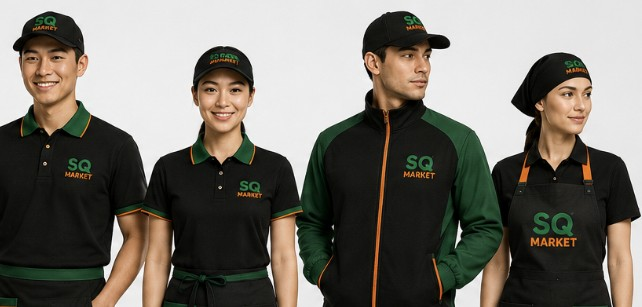
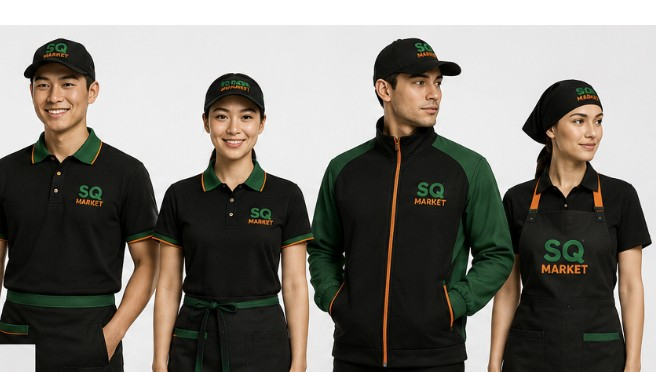
Живая карта 2ГИС и аккуратное фото команды
- карту можно двигать и приближать: проверено, что ссылка «Узнать больше»
  внутри виджета сама перекидывает на карточку в Астане, блокировать
  клики больше не нужно
- touch-action: auto для карты, чтобы жесты работали (у страницы он ограничен)
- фото формы перекадрировано из исходника: люди больше не обрезаны по пояс

diff --git a/index.html b/index.html
@@ -20,11 +20,11 @@
 <link rel="preconnect" href="https://fonts.gstatic.com" crossorigin>
 <link href="https://fonts.googleapis.com/css2?family=Manrope:wght@400;500;600;700&family=Unbounded:wght@600;700;800&display=swap" rel="stylesheet">
 
-<link rel="stylesheet" href="assets/css/tokens.css?v=15">
-<link rel="stylesheet" href="assets/css/base.css?v=15">
-<link rel="stylesheet" href="assets/css/components.css?v=15">
-<link rel="stylesheet" href="assets/css/sections.css?v=15">
-<link rel="stylesheet" href="assets/css/mobile.css?v=15">
+<link rel="stylesheet" href="assets/css/tokens.css?v=17">
+<link rel="stylesheet" href="assets/css/base.css?v=17">
+<link rel="stylesheet" href="assets/css/components.css?v=17">
+<link rel="stylesheet" href="assets/css/sections.css?v=17">
+<link rel="stylesheet" href="assets/css/mobile.css?v=17">
 </head>
 
 <body>
@@ -309,7 +309,7 @@
   <section class="section section--tight">
     <div class="wrap team__grid">
       <div class="team__photo" data-reveal="left">
-        <img src="assets/img/uniform.jpg" alt="Форма сотрудников SQ Market" loading="lazy" width="642" height="307">
+        <img src="assets/img/uniform.jpg?v=17" alt="Форма сотрудников SQ Market" loading="lazy" width="656" height="372">
       </div>
       <div data-reveal="right">
         <p class="label">Команда</p>
@@ -530,14 +530,14 @@
      СКРИПТЫ. Порядок важен.
      data.js — контент · icons.js — иконки · core.js — ядро
      ============================================================ -->
-<script src="assets/js/data.js?v=15"></script>
-<script src="assets/js/icons.js?v=15"></script>
-<script src="assets/js/core.js?v=15"></script>
-<script src="assets/js/ui.js?v=15"></script>
-<script src="assets/js/modal.js?v=15"></script>
-<script src="assets/js/nav.js?v=15"></script>
-<script src="assets/js/map.js?v=15"></script>
-<script src="assets/js/render.js?v=15"></script>
-<script src="assets/js/main.js?v=15"></script>
+<script src="assets/js/data.js?v=17"></script>
+<script src="assets/js/icons.js?v=17"></script>
+<script src="assets/js/core.js?v=17"></script>
+<script src="assets/js/ui.js?v=17"></script>
+<script src="assets/js/modal.js?v=17"></script>
+<script src="assets/js/nav.js?v=17"></script>
+<script src="assets/js/map.js?v=17"></script>
+<script src="assets/js/render.js?v=17"></script>
+<script src="assets/js/main.js?v=17"></script>
 </body>
 </html>

diff --git a/assets/css/sections.css b/assets/css/sections.css
@@ -976,10 +976,13 @@ body.nav-open .mobile-nav__foot { opacity: 1; }
   min-height: inherit;
   border: 0;
   display: block;
-  /* Виджет 2ГИС строит свои ссылки на московский домен и открывает пустую
-     страницу, поэтому кликов ему не даём — вместо них свои кнопки ниже.
-     Побочная польза: на телефоне карта больше не «съедает» прокрутку. */
-  pointer-events: none;
+
+  /* Карта живая: её можно двигать и приближать.
+     Проверено: ссылка «Узнать больше» внутри виджета сама перекидывает
+     на правильную карточку в Астане, так что блокировать клики не нужно.
+     touch-action возвращаем в auto — у страницы он ограничен, чтобы её
+     нельзя было утянуть вбок, но карте жесты нужны. */
+  touch-action: auto;
 }
 
 /* Верхняя панель карты. Она же закрывает служебную плашку виджета

diff --git a/assets/css/components.css b/assets/css/components.css
@@ -660,7 +660,7 @@
   border: 0;
   transform: scale(0.8);
   transform-origin: top left;
-  pointer-events: none;
+  touch-action: auto;          /* карту внутри окна можно двигать пальцем */
 }
 
 .modal__live {
